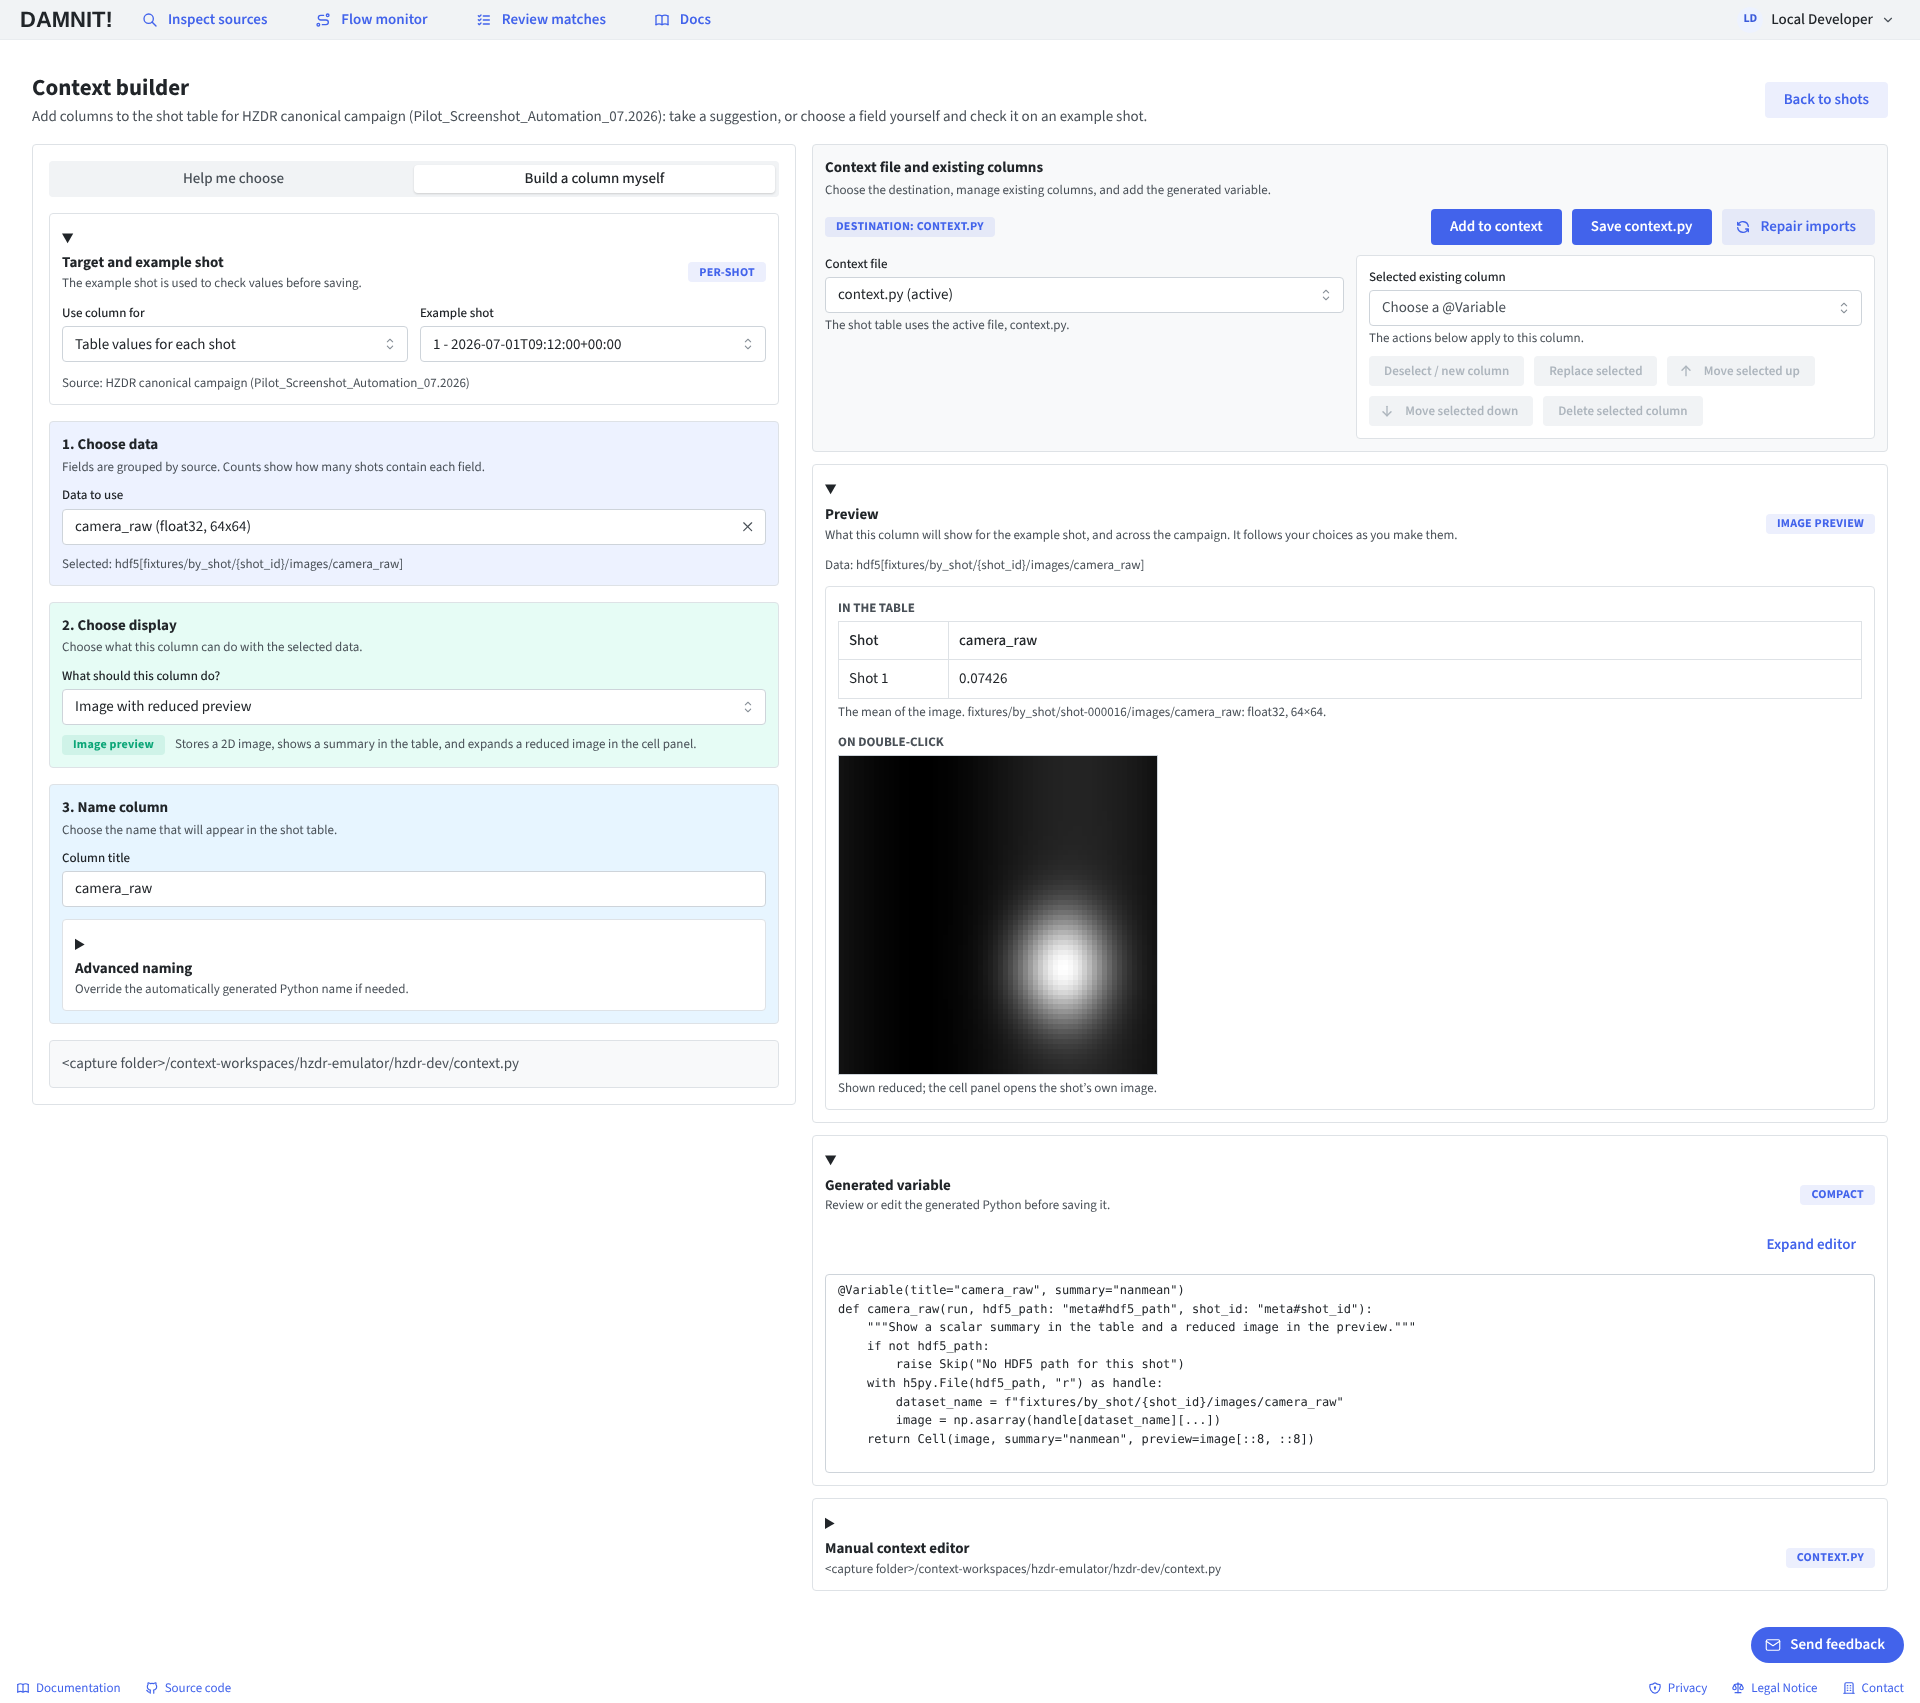
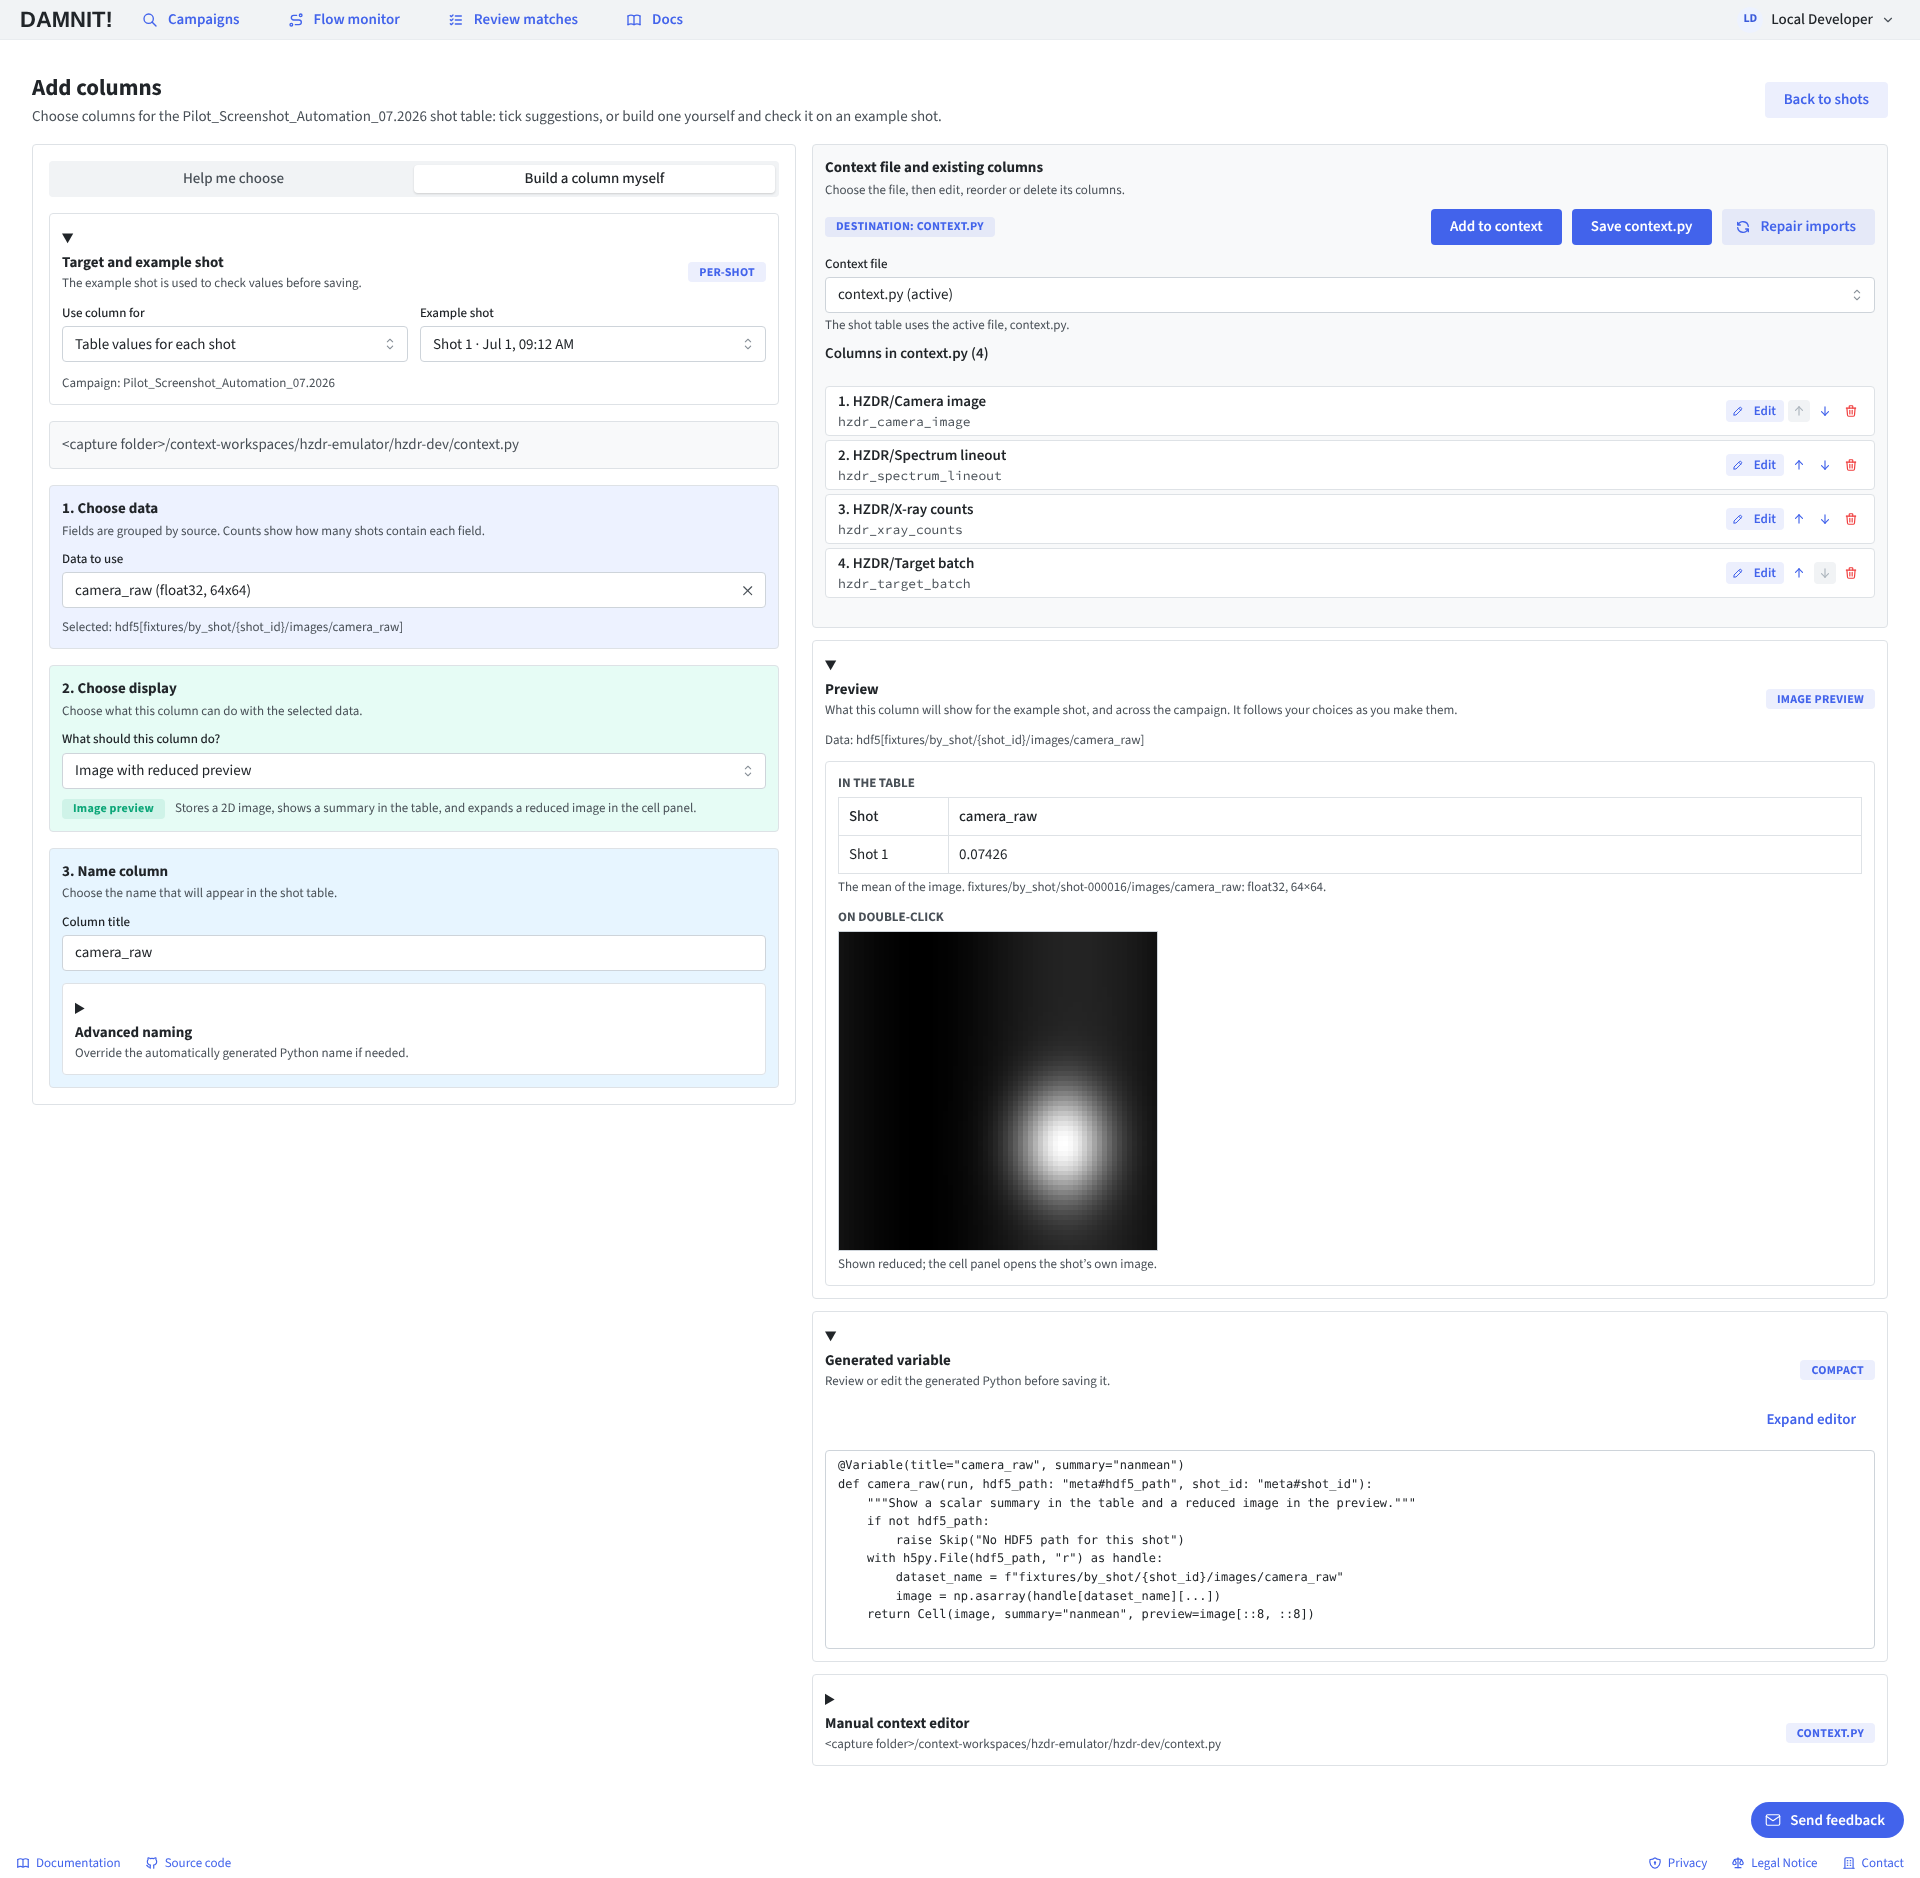
Shot detail: preview data products the builder recorded with the campaign file as path; screenshots recaptured
Claude-Session: https://claude.ai/code/session_014Jn2FUYm5jdkuJ6M2VJL8i

diff --git a/frontend/apps/app/src/hzdr/utils/shot-products.ts b/frontend/apps/app/src/hzdr/utils/shot-products.ts
@@ -11,16 +11,37 @@ function kindFromShape(shape: Array<number | string>) {
   return 'stack'
 }
 
+function fileName(path: string) {
+  return path.replace(/\\/g, '/').split('/').filter(Boolean).at(-1) ?? ''
+}
+
+/**
+ * Whether a product lives in the campaign file: no separate `path`, or the
+ * campaign file's own (the builder records an in-file product's path as the
+ * file it wrote, maybe under another host's mount, hence the name check).
+ */
+function isInCampaignFile(
+  path: string | null | undefined,
+  campaignFile?: string | null
+) {
+  if (!path) return true
+  if (!campaignFile) return false
+  return path === campaignFile || fileName(path) === fileName(campaignFile)
+}
+
 /**
  * The campaign-file dataset a data product can be previewed from, without
  * the leading slash, or undefined. Only products written into the campaign
- * file itself (no separate `path`) as a scalar, line or image; a LabFrog
- * shot-indexed table holds every shot, so a preview would not be this shot's.
+ * file itself (`campaignFile`, the shot's `hdf5_path`) as a scalar, line or
+ * image; a LabFrog shot-indexed table holds every shot, so a preview would
+ * not be this shot's.
  */
 export function previewableProductDataset(
-  product: HZDRDataProduct
+  product: HZDRDataProduct,
+  campaignFile?: string | null
 ): string | undefined {
-  if (product.path || !product.dataset_name) return undefined
+  if (!product.dataset_name || !isInCampaignFile(product.path, campaignFile))
+    return undefined
   if (product.metadata?.shot_indexed === true) return undefined
   const kind = product.preview_kind ?? kindFromShape(product.shape ?? [])
   if (!PREVIEW_KINDS.includes(kind)) return undefined

diff --git a/frontend/apps/app/src/hzdr/utils/__tests__/shot-page-utils.test.ts b/frontend/apps/app/src/hzdr/utils/__tests__/shot-page-utils.test.ts
@@ -83,6 +83,29 @@ describe('previewable data products', () => {
     ).toBe('entry/laserdata/waveform/ev-1/values')
   })
 
+  it('previews a product whose path is the campaign file itself', () => {
+    const campaignFile = '/bigdata/nexus/Pilot/Pilot.nxs'
+    expect(
+      previewableProductDataset(
+        { ...product, path: campaignFile },
+        campaignFile
+      )
+    ).toBe('entry/laserdata/waveform/ev-1/values')
+    // the same file recorded under another host's mount
+    expect(
+      previewableProductDataset(
+        { ...product, path: 'Z:/bigdata/nexus/Pilot/Pilot.nxs' },
+        campaignFile
+      )
+    ).toBe('entry/laserdata/waveform/ev-1/values')
+    expect(
+      previewableProductDataset(
+        { ...product, path: '/data/a.h5' },
+        campaignFile
+      )
+    ).toBe(undefined)
+  })
+
   it('skips files, stacks and LabFrog tables of every shot', () => {
     expect(previewableProductDataset({ ...product, path: '/data/a.h5' })).toBe(
       undefined

diff --git a/frontend/apps/app/src/hzdr/components/ShotProductPreview.tsx b/frontend/apps/app/src/hzdr/components/ShotProductPreview.tsx
@@ -84,7 +84,7 @@ export function ShotProductPreview({
   product: HZDRDataProduct
 }) {
   const [open, setOpen] = useState(false)
-  const datasetName = previewableProductDataset(product)
+  const datasetName = previewableProductDataset(product, shot.hdf5_path)
   if (!datasetName) return null
   return (
     <Stack gap={4}>

diff --git a/hzdr/scripts/capture-screenshots.py b/hzdr/scripts/capture-screenshots.py
@@ -28,6 +28,7 @@ import json
 import math
 import os
 import random
+import re
 import shutil
 import signal
 import socket
@@ -641,9 +642,9 @@ def _select_camera_image_cell(page: Page) -> None:
     """Open the camera-image cell of a mid-run shot in the selected-cell panel.
 
     Shows what a context image column does on click - the full preview and the
-    column trend - instead of the empty "click a cell" placeholder. The Shot
-    detail panel below it stays folded: its HDF5 dataset list is thousands of
-    rows long, and a full-page capture would be mostly that list.
+    column trend - instead of the empty "click a cell" placeholder. Shot
+    detail, open below it, lists only that shot's datasets, so the capture
+    shows it too.
     """
     column_index = _context_column_index(page, "HZDR/Camera image")
     if column_index is None:
@@ -676,17 +677,18 @@ def _open_details_section(page: Page, title: str) -> None:
 def _prepare_context_assist(page: Page) -> None:
     """Show the builder's default "Help me choose" view with its suggestions.
 
-    Waits for the campaign's suggestion cards and for the "Show more" button
-    that appears once the example shot's dataset suggestions have joined them
-    (the capture campaign has more than the first six), then opens the first
-    card's preview.
+    Waits for the suggestion rows and for the "Show more" button that appears
+    once the example shot's dataset suggestions have joined them (the capture
+    campaign has more than the first page), ticks three rows so the "Add N
+    columns" bar is live, and waits for the first row's preview, which the
+    right column shows on a wide screen.
     """
     _open_details_section(page, "Target and example shot")
     page.get_by_text("Suggested columns").first.wait_for()
-    page.get_by_role("article").first.wait_for()
     page.get_by_role("button", name="more suggestions").wait_for()
-    # Open the first suggestion's preview: its cell and campaign trend.
-    page.get_by_role("article").first.get_by_role("button", name="Preview").click()
+    ticks = page.get_by_role("checkbox", name="Tick ")
+    for index in range(3):
+        ticks.nth(index).check()
     page.get_by_text("Across the campaign").first.wait_for()
 
 
@@ -724,12 +726,13 @@ def _prepare_docs(page: Page) -> None:
 
 
 def _prepare_review_matches(page: Page) -> None:
-    """Wait for the first catalog's review lists to load.
+    """Wait for the chosen campaign's review lists to load.
 
-    The page selects the first campaign catalog itself; the cards appear only
-    once its review list and shots have arrived.
+    The page picks the campaign with the most waiting itself; the cards, or
+    the "all clear" banner when nothing waits, appear once its review list
+    and shots have arrived.
     """
-    page.get_by_text("Ambiguous matches").first.wait_for()
+    page.get_by_text(re.compile("all clear|Ambiguous matches")).first.wait_for()
 
 
 def _prepare_flow_monitor(page: Page) -> None:
@@ -745,7 +748,7 @@ def _prepare_flow_monitor(page: Page) -> None:
         page.get_by_role("button", name="New shot"),
         page.get_by_role("button", name="Enrich latest").first,
         page.get_by_role("button", name="Enrich latest").last,
-        page.get_by_role("button", name="Poll live"),
+        page.get_by_role("button", name="Refresh"),
         page.get_by_role("button", name="Build HDF5"),
     ):
         button.click(force=True)
@@ -758,7 +761,7 @@ def _prepare_flow_monitor(page: Page) -> None:
 # Capture order matters: the flow monitor's demo actions mutate the fixture
 # stack, so it runs after every page that photographs the unmodified campaign.
 SHOTS = (
-    Shot("home.png", "/home", "heading", "DAMNIT! HZDR workspace"),
+    Shot("home.png", "/home", "heading", "Campaigns"),
     Shot(
         "shot-table.png",
         f"/source/{PRIMARY.source_key}",
@@ -770,14 +773,14 @@ SHOTS = (
         "context-assist.png",
         f"/source/{PRIMARY.source_key}/context-builder",
         "heading",
-        "Context builder",
+        "Add columns",
         _prepare_context_assist,
     ),
     Shot(
         "context-builder.png",
         f"/source/{PRIMARY.source_key}/context-builder",
         "heading",
-        "Context builder",
+        "Add columns",
         _prepare_context_builder,
     ),
     # The file keeps its old name until the screenshot revamp recaptures it.
